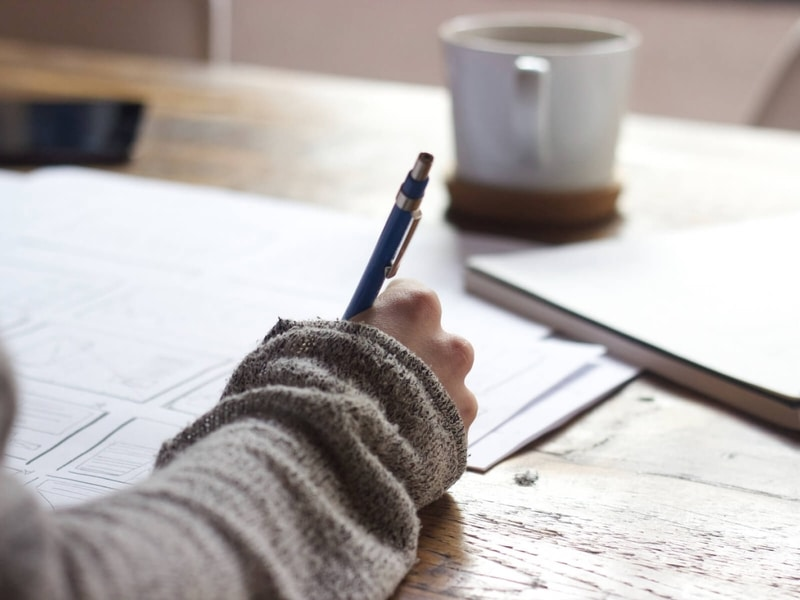
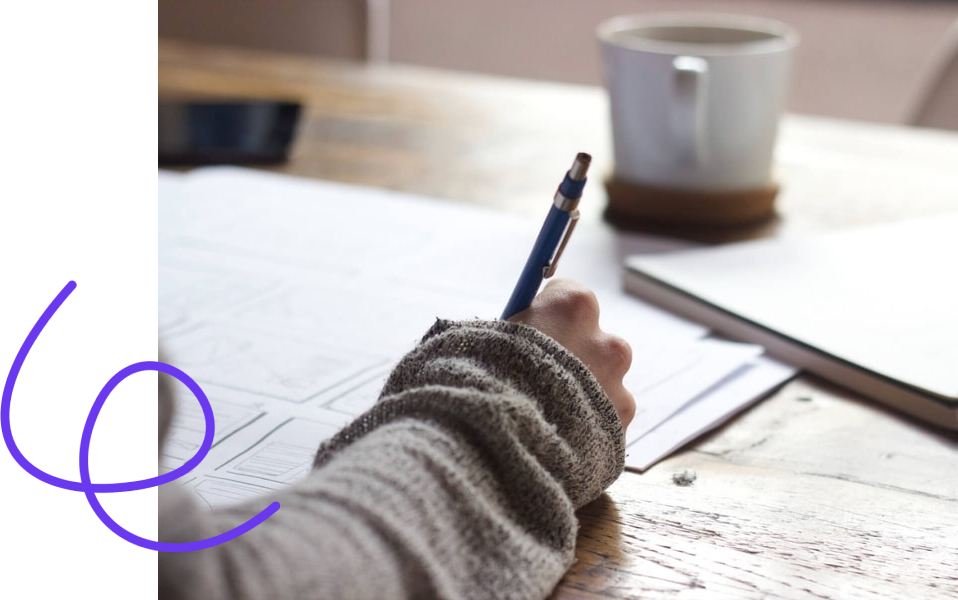
adaptive improvements

diff --git a/css/styles.css b/css/styles.css
@@ -1,7 +1,5 @@
 @import url('https://fonts.googleapis.com/css2?family=Inter&family=Outfit:wght@400;500;600;700&display=swap');
 @import url('https://fonts.googleapis.com/css2?family=Inter&family=Oswald&display=swap');
-@import "./reset.css";
-
 html {
     scroll-behavior: smooth;
 }
@@ -155,6 +153,10 @@ body {
     z-index: -1;
 }
 
+.mobile-image {
+    display: none;
+}
+
 @media (max-width: 1200px) {
     .header__title {
         
@@ -162,7 +164,7 @@ body {
     }
 }
 
-@media (max-width: 991.98px) {
+@media (max-width: 996.98px) {
     .header__content {
         padding-top: 45px;
     }
@@ -174,11 +176,11 @@ body {
 
     .header__text {
         max-width: 250px;
-        margin-top: 30px;
+        margin-top: 50px;
     }
 }
 
-@media (max-width: 767.98px) {
+@media (max-width: 768.98px) {
 
     .header__content {
         padding-top: 15px;
@@ -198,10 +200,17 @@ body {
     }
 }
 
-@media (max-width: 550px) {
+@media (max-width: 555px) {
     .header__image {
-        margin-top: 60px;
+        margin-top: 70px;
         width: 90%;
+
+    }
+    .desktop-image {
+        display: none;
+    }
+    .mobile-image {
+        display: block;
     }
     .header__title {
         font-size: 25px;
@@ -214,8 +223,26 @@ body {
     }
 }
 
+@media (max-width: 420px) {
+    .header__title {
+        font-size: 20px;
+    }
+
+}
+
+@media (max-width: 347px) {
+    .header__title {
+        font-size: 18px;
+    }
+
+    .header__text {
+        font-size: 12px;
+        max-width: 150px;
+    }
+}
+
 .projects {
-    margin-top: 320px;
+    margin-top: 14vw;
 }
 
 .projects__title {
@@ -267,10 +294,21 @@ body {
     margin-top: 24px;
 }
 
+@media (max-width: 425px) {
+    .projects__title {
+        font-size: 35px;
+    }
+
+    .projects__btn {
+        max-width: 100px;
+        height: 40px;
+    }
+}
+
 /* About */
 
 .about {
-    padding-top: 191px;
+    margin-top: 14vw;
 }
 
 .about__title {
@@ -304,7 +342,7 @@ body {
     font-size: 20;
     font-family: 'Inter';
     width: 47.3%;
-    margin-top: 833px;
+    margin-top: 60vw;
     margin-left: auto;
     margin-right: auto;
 }
@@ -329,10 +367,40 @@ body {
     margin-left: 26.3%;
 }
 
+@media (max-width: 768px) {
+    .about__title {
+        font-size: 44px;
+    }
+}
+
+@media (max-width: 555px) {
+    .about__btn {
+        margin-left: 11vw;
+    }
+    .about__text-top{
+        width: 75%;
+    }
+    .about__text-bottom{
+        width: 75%;
+    }
+    .about__title {
+        font-size: 35px;
+    }
+    .about__img {
+        padding-top: 55px;
+    }
+}
+
+@media (max-width: 336px) {
+    .about__btn {
+        margin-left: 6vw;
+    }
+}
+
 /* Reviews */
 
 .reviews {
-    margin-top: 212px;
+    margin-top: 14vw;
 }
 
 .reviews__img {
@@ -343,7 +411,7 @@ body {
 /* Blog */
 
 .blogs {
-    margin-top: 197px;
+    margin-top: 13vw;
 }
 
 .blogs__title {
@@ -357,7 +425,7 @@ body {
     font-family: 'Inter';
     font-size: 18px;
     color: #667085;
-    width: 42%;
+    width: 42vw;
 }
 
 .blog__btn {
@@ -378,7 +446,8 @@ body {
 }
 
 .blog__slide {
-    width: 48.84%;
+    margin-left: 7px;
+    margin-right: 7px;
 }
 
 .blog__img {
@@ -419,10 +488,22 @@ body {
     text-decoration: none;
 }
 
+@media (max-width: 555px) {
+    .blogs__text {
+        width: 60vw;
+    }
+    .blog__container {
+        display: flex;
+        flex-direction: column;
+        flex-wrap: nowrap;
+        justify-content: space-between;
+    }
+}
+
 /* Footer */
 
 .footer {
-    margin-top: 148px;
+    margin-top: 12vw;
 }
 
 .footer__header {
@@ -442,7 +523,10 @@ body {
 }
 
 .footer__container {
-    margin-top: 147px;
+    display: flex;
+    flex-direction: column;
+    justify-content: center;
+    margin-top: 12vw;
     border-top: 1px solid #E4E7EC;
     padding: 66px 32px 0 32px;
 }
@@ -463,21 +547,21 @@ body {
     border-top: 1px solid #E4E7EC;
     display: flex;
     flex-direction: row;
-    justify-content: none;
+    justify-content: space-around;
 }
 
 .copyright__text-1 {
     font-family: 'Inter';
     color: #667085;
-    font-size: 16;
-    margin-right: 4px;
+    font-size: 16px;
+    
 }
 
 .copyright__text-2 {
     font-family: 'Inter';
     color: #98A2B3;
     font-size: 15px;
-    top: 10px;
+    margin-top: 1px;
 }
 
 .dot {
@@ -485,4 +569,38 @@ body {
     color: #667085;
     font-size: 16px;
     margin-right: 8px;
+}
+
+@media (max-width: 768.98px) {
+    .footer__container {
+        padding: 30px 32px 0 32px;
+    }
+    .copyright__container {
+        margin-top: 30px;
+    }
+
+}
+
+@media (max-width: 555px) {
+    .footer__header {
+        font-size: 35px;
+    }
+    .footer__link {
+        font-size: 35px;
+    }
+    .copyright__text-1 {
+        font-size: 13px;
+    }
+    .copyright__text-2 {
+        font-size: 12px;
+    }
+}
+
+@media (max-width: 330px) {
+    .copyright__text-1 {
+        font-size: 11px;
+    }
+    .copyright__text-2 {
+        font-size: 10px;
+    }
 }

diff --git a/index.html b/index.html
@@ -5,6 +5,7 @@
     <meta http-equiv="X-UA-Compatible" content="IE=edge">
     <meta name="viewport" content="width=2, initial-scale=1.0">
     <title>Veronica</title>
+    <link rel="stylesheet" href="./css/reset.css">
     <link rel="stylesheet" href="./css/styles.css">
     <link rel="preconnect" href="https://fonts.googleapis.com">
     <link rel="preconnect" href="https://fonts.gstatic.com" crossorigin>
@@ -40,8 +41,11 @@
                         <h3 class="header__title">Make your no-code website. You have a vision. We have a way to get you there.</h3>
                         <p class="header__text">Iste natus error sit voluptatem accusantium doloremque laudantium, totam rem aperiam eaque ipsa quae illo inventore veritatis quasi.</p>
                      </div>
-                     <div class="header__image">
+                     <div class="header__image desktop-image">
                         <img src="./img/header-image.png" alt="">
+                     </div>
+                     <div class="header__image mobile-image">
+                        <img src="./img/header-mobile.png" alt="">
                      </div>
                 </div>
             </div>
@@ -62,9 +66,8 @@
             </section>
 
             <section class="about">
-                <h3 class="about__title">I'm veronica, Your go-to No-code web designer and branding expert</h3>
+                <h3 class="about__title">I'm Veronica, Your go-to No-code web designer and branding expert</h3>
                 <img src="./img/Work.png" alt="Work" class="about__img">
-                <img src="./img/thing.svg" alt="Thing" class="about__thing">
                 <p class="about__text-top">Lorem ipsum dolor sit amet, consectetur adipiscing elit, sed do eiusmod tempor incididunt ut labore et dolore magna aliqua. Ut enim ad minim veniam, quis nostrud exercitation ullamco laboris nisi ut aliquip ex ea commodo consequat.</p>
                 <p class="about__text-bottom">Duis aute irure dolor in reprehenderit in voluptate velit esse cillum dolore eu fugiat nulla pariatur. Excepteur sint occaecat cupidatat non proident, sunt in culpa qui officia deserunt mollit anim id est laborum.</p>
                 <a href="#!" class="about__btn">Learn more about me</a>
@@ -99,23 +102,25 @@
         </div>
     </main>
 
-    <footer class="footer none">
+    <footer class="footer">
         <div class="container">
             <h3 class="footer__header">Need a no-code Website?</h3>
             <a href="!#" class="footer__link">Let's work together.</a>
         </div>
         <div class="footer__container">
-            <a href="#!" class="footer__logo">
-                <img src="./img/Logo.svg" alt="Veronica">
-            </a>
-            <ul class="nav__list margin__top">
-                <li><a href="#!" class="nav__link">Home</a></li>
-                <li><a href="#!" class="nav__link">Projects</a></li>
-                <li><a href="#!" class="nav__link">Blog</a></li>
-                <li><a href="#!" class="nav__link">Shop</a></li>
-                <li><a href="#!" class="nav__link">About</a></li>
-                <li><a href="#!" class="nav__link">Contact</a></li>
-            </ul>
+            <div class="footer__wrapper">
+                <a href="#!" class="footer__logo">
+                    <img src="./img/Logo.svg" alt="Veronica">
+                </a>
+                <ul class="nav__list margin__top">
+                    <li><a href="#!" class="nav__link">Home</a></li>
+                    <li><a href="#!" class="nav__link">Projects</a></li>
+                    <li><a href="#!" class="nav__link">Blog</a></li>
+                    <li><a href="#!" class="nav__link">Shop</a></li>
+                    <li><a href="#!" class="nav__link">About</a></li>
+                    <li><a href="#!" class="nav__link">Contact</a></li>
+                </ul>
+            </div>
             <div class="copyright__container">
                 <p class="copyright__text-1">© Veronica by</p>
                 <p class="copyright__text-2">Minimal Square</p>
